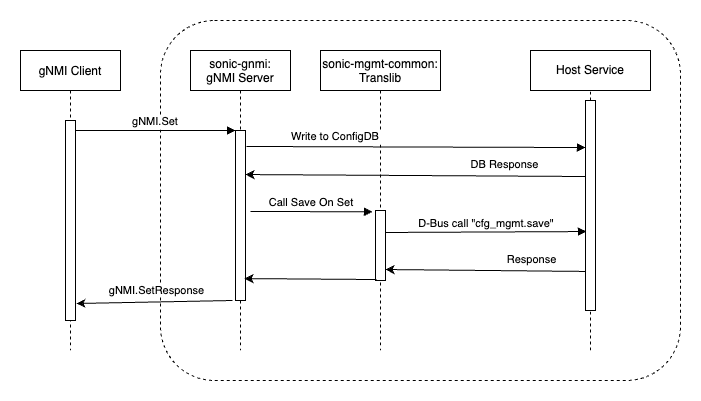
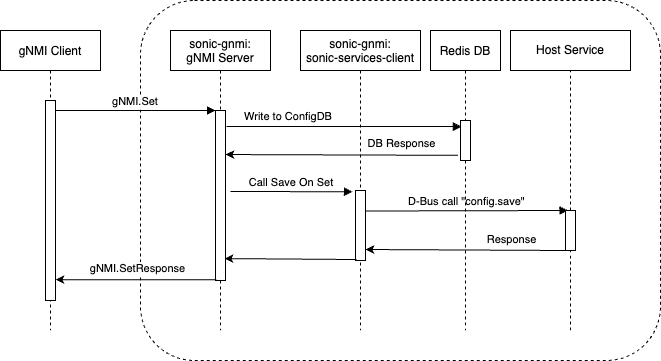
Update design to use sonic-services-client

diff --git a/doc/mgmt/gnmi/save_on_set.md b/doc/mgmt/gnmi/save_on_set.md
@@ -35,6 +35,7 @@ _Rev v0.1_
 | Rev  | Rev Date   | Author(s)          | Change Description |
 |------|------------|--------------------|--------------------|
 | v0.1 | 02/22/2021 | Tomek Madejski (Google), Ryan Lucus (Google)  | Initial version |
+| v0.2 | 03/26/2024 | Ryan Lucus (Google) | Update to use Sonic Service Client |
 
 ### Scope
 
@@ -51,7 +52,7 @@ Having configuration be persistant across switch reboot is a useful feature that
 
 The required behaviour is to save the configuration to a file that is used to populate the configuration database during the startup process every time the gNMI.Set() RPC call is performed.
 
-Due to SONiC architecture the UMF container cannot perform this action completely by itself and a dedicated support is needed on the ‘host’ side.
+Due to SONiC architecture the UMF container cannot perform this action completely by itself and a dedicated support is needed on the ‘host’ side. This is accomplished by sending a call through DBUS to a sonic host service module.
 
 Currently there are a number of devices that are ‘out in the wild’ that use the current implementation of the UMF and therefore do not persist configuration across reboots and their behavior cannot be changed without changing the configuration tools that interact with them.
 For this reason and for more versatility the save-on-set behavior should be able to be toggled by a command-line parameter to the telemetry executable.
@@ -72,13 +73,12 @@ This feature does not change the SONiC Architecture
   - gNMI Server
 - What are the repositories that would be changed?
   - [sonic-gnmi](https://github.com/sonic-net/sonic-gnmi)
-  - [sonic-mgmt-common](https://github.com/sonic-net/sonic-mgmt-common)
 - Module/sub-module interfaces and dependencies.
   - Adds a flag to the gNMI module.
 - SWSS and Syncd changes in detail
   - N/A
 - DB and Schema changes (APP_DB, ASIC_DB, COUNTERS_DB, LOGLEVEL_DB, CONFIG_DB, STATE_DB)
-  - Adds an entry to the CONFIG_DB to determine if the feature is enabled.
+  - N/A
 - Sequence diagram if required.
 ![Flow Char](images/save_on_set.png)
 - Linux dependencies and interface
@@ -122,38 +122,6 @@ var (
 
 if *withSaveOnSet {
   gnmi.SaveOnSet = gnmi.SaveOnSetEnabled
-}
-```
-
-##### Call to Save ConfigDB
-
-A function to initialize the backup located in the sonic-mgmt-framework.
-
-```go
-// SaveConfig initiates the operation of saving the current content of
-// the ConfigDB to a file that is then used to populate the database during the
-// startup.
-func SaveConfig() error {
-    r := HostQuery("cfg_mgmt.save", []string{})
-    if r.Err != nil{
-        return errors.New("internal SONiC Hostservice failure: " + r.Err.Error())
-    }
-    if len(r.Body) < 2 {
-        return errors.New(
-            "internal SONiC Hostservice failure: the response is too short.")
-    }
-    if _, ok := r.Body[0].(int32); !ok {
-        return errors.New(
-            "internal SONiC Hostservice failure: first element is not int32.")
-    }
-if_, ok := r.Body[1].(string); !ok {
-        return errors.New(
-            "internal SONiC Hostservice failure: second element is not string.")
-    }
-    if r.Body[0].(int32) != 0 {
-        return errors.New(r.Body[1].(string))
-    }
-    return nil
 }
 ```
 
